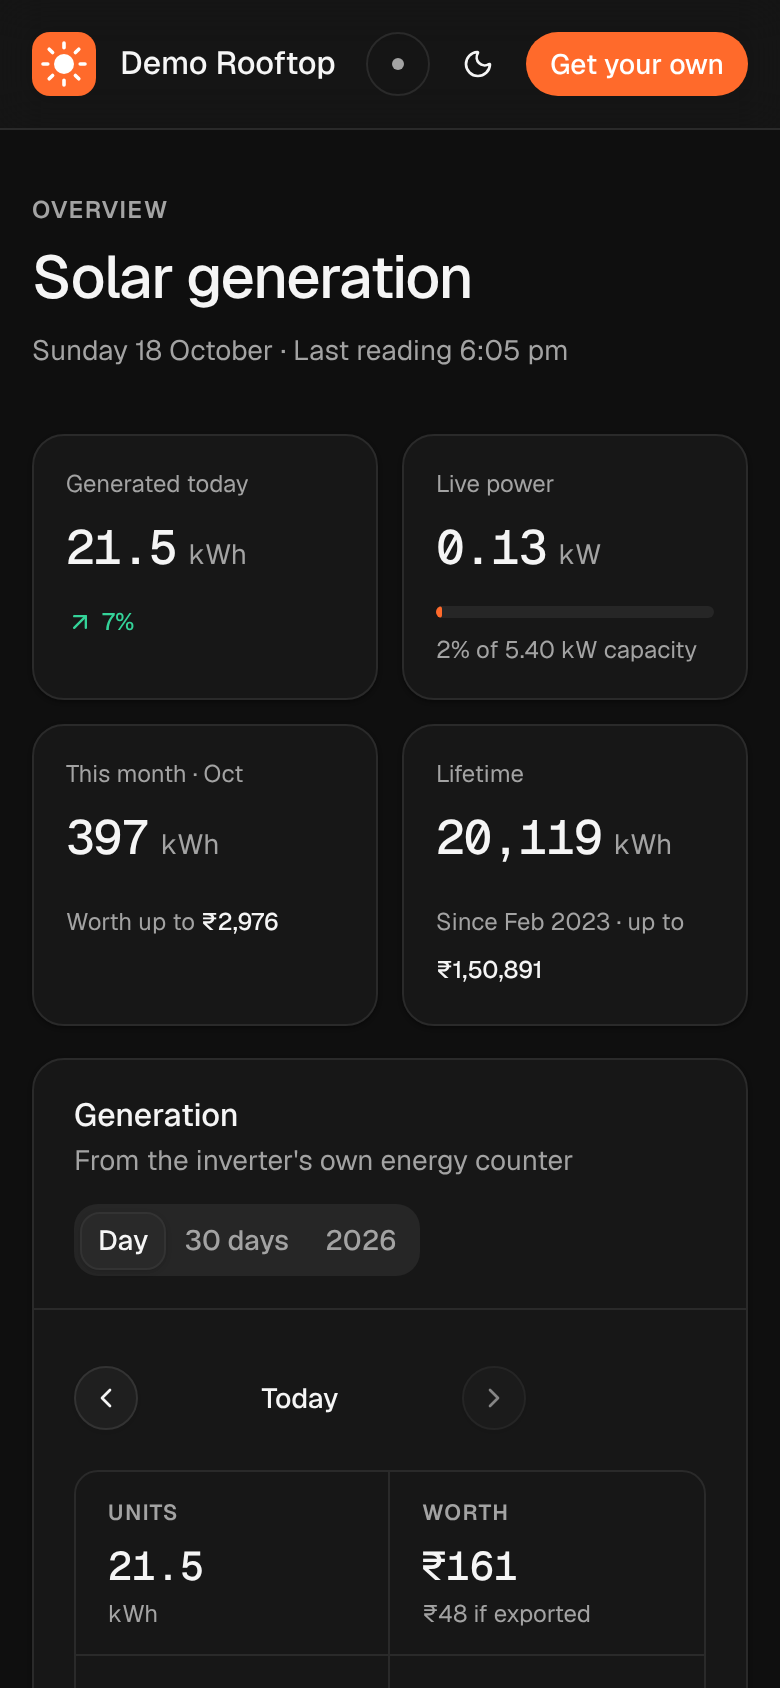
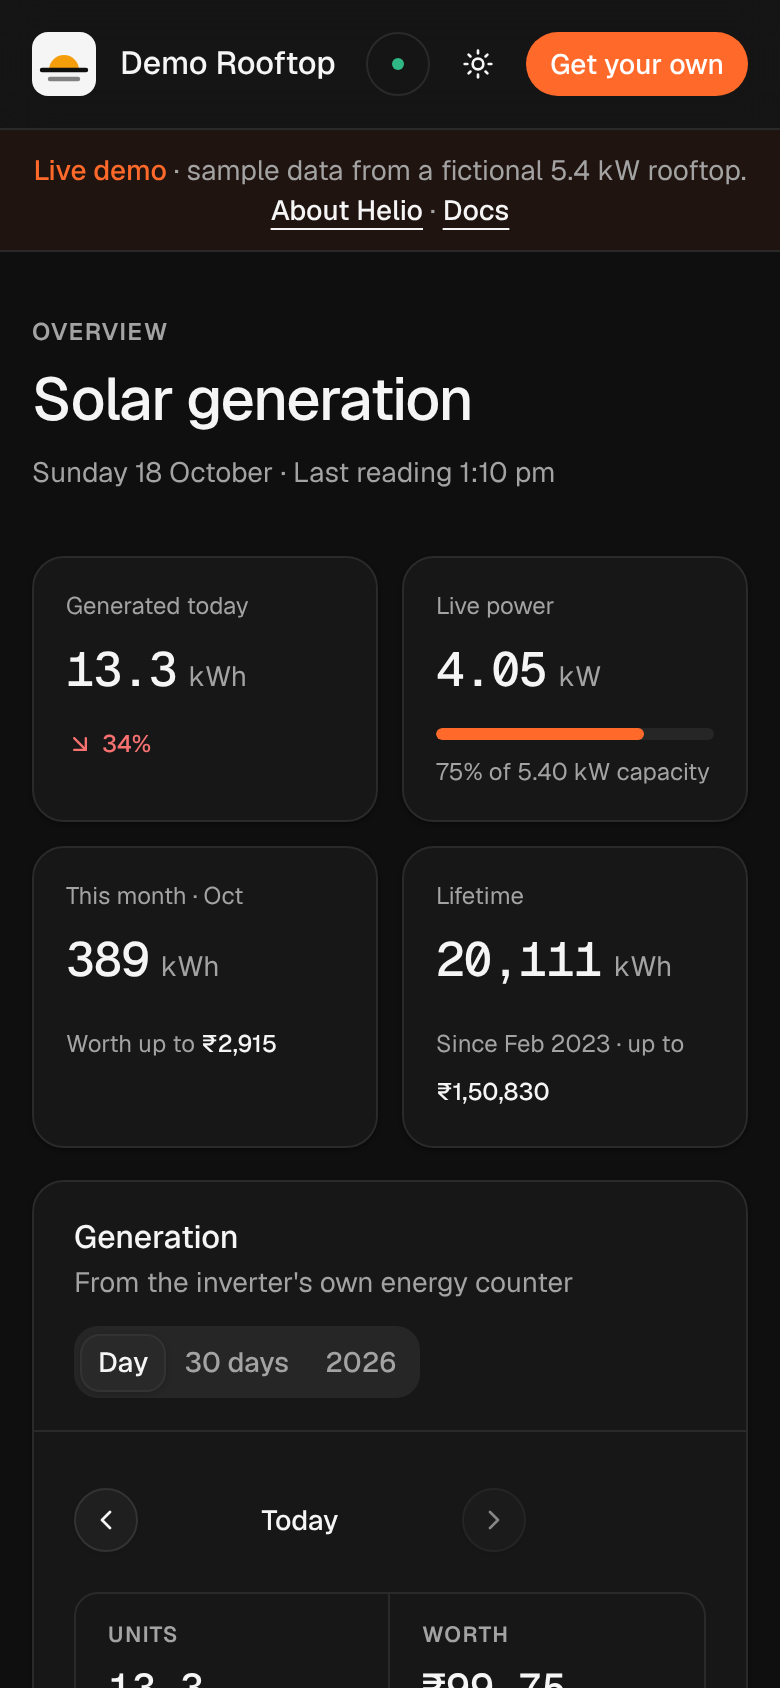
1.1.0: edit rates and currency on the dashboard
- What it's worth -> Edit rates: set tariff, export rate and currency per browser, reset to env defaults
- Small amounts show cents/paise so non-INR rates read correctly
- New mark (sun on the horizon) and neutral lifetime icon
- Fresh screenshots; docs explain overriding rates

Claude-Session: https://claude.ai/code/session_018cnrALVPbU82T1sgB5GFVr

diff --git a/components/dashboard.tsx b/components/dashboard.tsx
@@ -1,10 +1,12 @@
 "use client";
 import { useCallback, useEffect, useMemo, useState } from "react";
-import { ArrowDownRight, ArrowUpRight, CalendarDays, ChevronLeft, ChevronRight, IndianRupee, LogOut, Moon, Sun, SunMedium, Zap } from "lucide-react";
+import { ArrowDownRight, ArrowUpRight, CalendarDays, Check, ChevronLeft, ChevronRight, Infinity as InfinityIcon, LogOut, Moon, Pencil, Sun, SunMedium, Zap } from "lucide-react";
 import type { DayDetail, Overview } from "@/lib/shinemonitor";
 import type { Settings } from "@/lib/config";
 import { DOCS_URL, PROJECT_URL, REPO_URL } from "@/lib/links";
 import { Badge } from "@/components/ui/badge";
+import { Input } from "@/components/ui/input";
+import { Label } from "@/components/ui/label";
 import { Button } from "@/components/ui/button";
 import { Card, CardContent, CardDescription, CardHeader, CardTitle } from "@/components/ui/card";
 import { Separator } from "@/components/ui/separator";
@@ -21,7 +23,8 @@ type Data = Overview & { settings: Settings };
 let TZ = "Asia/Kolkata";
 let CUR = "₹";
 let LOC = "en-IN";
-const inr = (n: number) => CUR + Math.round(n).toLocaleString(LOC);
+// Whole units for big amounts, cents/paise for small ones so $0.18 rates still read correctly.
+const inr = (n: number) => CUR + (Math.abs(n) < 100 && n % 1 !== 0 ? n.toLocaleString(LOC, { minimumFractionDigits: 2, maximumFractionDigits: 2 }) : Math.round(n).toLocaleString(LOC));
 const MONTHS = ["Jan", "Feb", "Mar", "Apr", "May", "Jun", "Jul", "Aug", "Sep", "Oct", "Nov", "Dec"];
 const todayIST = () => new Date().toLocaleDateString("en-CA", { timeZone: TZ });
 const shiftDate = (d: string, n: number) => new Date(new Date(d + "T12:00:00+05:30").getTime() + n * 86400000).toLocaleDateString("en-CA", { timeZone: TZ });
@@ -50,6 +53,10 @@ export function Dashboard({ mode = "live" }: { mode?: "live" | "demo" }) {
   const [day, setDay] = useState<DayDetail | null>(null);
   const [dayLoading, setDayLoading] = useState(true);
   const [showAll, setShowAll] = useState(false);
+  const ratesKey = mode === "demo" ? "helio.demo.rates" : "helio.rates";
+  const [rates, setRates] = useState<Rates | null>(null);
+  useEffect(() => { setRates(readRates(ratesKey)); }, [ratesKey]);
+  const saveRates = (r: Rates | null) => { setRates(r); try { r ? localStorage.setItem(ratesKey, JSON.stringify(r)) : localStorage.removeItem(ratesKey); } catch {} };
 
   const loadOverview = useCallback(() => getJSON<Data>(api).then((d) => { TZ = d.settings.timezone; CUR = d.settings.currency; LOC = d.settings.locale; setData(d); setErr(null); }).catch((e) => setErr(e.message)), [api]);
   const loadDay = useCallback((d: string) => {
@@ -92,6 +99,9 @@ export function Dashboard({ mode = "live" }: { mode?: "live" | "demo" }) {
     );
   }
 
+  // Rates set on this device win over the server defaults, so anyone can use their own tariff and currency.
+  const set: Settings = { ...data.settings, ...(rates ?? {}) };
+  CUR = set.currency;
   const cap = data.plant.capacityKw;
   const diff = data.yesterdayKwh ? ((data.todayKwh - data.yesterdayKwh) / data.yesterdayKwh) * 100 : null;
   const isToday = date === todayIST();
@@ -134,9 +144,9 @@ export function Dashboard({ mode = "live" }: { mode?: "live" | "demo" }) {
             </div>
           } />
         <Kpi icon={CalendarDays} label={`This month · ${MONTHS[Number(todayIST().slice(5, 7)) - 1]}`} value={fmt(data.monthKwh, 0)} unit="kWh"
-          footer={<span className="text-xs text-muted-foreground">Worth up to <b className="font-medium text-foreground">{inr(data.monthKwh * data.settings.tariff)}</b></span>} />
-        <Kpi icon={IndianRupee} label="Lifetime" value={fmt(data.totalKwh, 0)} unit="kWh"
-          footer={<span className="text-xs text-muted-foreground">{since ? `Since ${since} · ` : ""}up to <b className="font-medium text-foreground">{inr(data.totalKwh * data.settings.tariff)}</b></span>} />
+          footer={<span className="text-xs text-muted-foreground">Worth up to <b className="font-medium text-foreground">{inr(data.monthKwh * set.tariff)}</b></span>} />
+        <Kpi icon={InfinityIcon} label="Lifetime" value={fmt(data.totalKwh, 0)} unit="kWh"
+          footer={<span className="text-xs text-muted-foreground">{since ? `Since ${since} · ` : ""}up to <b className="font-medium text-foreground">{inr(data.totalKwh * set.tariff)}</b></span>} />
       </div>
 
       <Card id="generation" className="mt-4 scroll-mt-24 gap-0 py-0">
@@ -164,7 +174,7 @@ export function Dashboard({ mode = "live" }: { mode?: "live" | "demo" }) {
             </div>
             <div className={cn("grid grid-cols-2 overflow-hidden rounded-lg border sm:grid-cols-4", dayLoading && "opacity-60")}>
               <MiniStat label="Units" value={day ? fmt(day.kwh) : "—"} unit="kWh" />
-              <MiniStat label="Worth" value={day ? inr(day.kwh * data.settings.tariff) : "—"} unit={day && data.settings.exportTariff ? `${inr(day.kwh * data.settings.exportTariff)} if exported` : ""} />
+              <MiniStat label="Worth" value={day ? inr(day.kwh * set.tariff) : "—"} unit={day && set.exportTariff ? `${inr(day.kwh * set.exportTariff)} if exported` : ""} />
               <MiniStat label="Peak" value={day?.peak ? fmt(day.peak.kw, 2) : "—"} unit={day?.peak ? `kW at ${t12(day.peak.t)}` : ""} />
               <MiniStat label="Producing" value={day?.firstAt ? `${t12(day.firstAt)} – ${t12(day.lastAt)}` : "—"} small />
             </div>
@@ -185,7 +195,7 @@ export function Dashboard({ mode = "live" }: { mode?: "live" | "demo" }) {
 
           <TabsContent value="year" className="px-5 pb-5 pt-5 sm:px-6">
             <div className="mb-4 text-sm text-muted-foreground">
-              Total <b className="font-mono font-medium tabular text-foreground">{fmt(data.yearKwh, 0)}</b> kWh · worth up to <b className="font-medium text-foreground">{inr(data.yearKwh * data.settings.tariff)}</b>
+              Total <b className="font-mono font-medium tabular text-foreground">{fmt(data.yearKwh, 0)}</b> kWh · worth up to <b className="font-medium text-foreground">{inr(data.yearKwh * set.tariff)}</b>
             </div>
             <UnitsChart items={data.months.map((m) => ({ key: String(m.m), label: MONTHS[m.m - 1], title: MONTHS[m.m - 1], kwh: m.kwh }))} active={String(Number(todayIST().slice(5, 7)))} />
           </TabsContent>
@@ -216,7 +226,7 @@ export function Dashboard({ mode = "live" }: { mode?: "live" | "demo" }) {
                       <div className="h-1.5 overflow-hidden rounded-full bg-muted"><div className="h-full rounded-full bg-primary/80" style={{ width: `${(d.kwh / maxDay) * 100}%` }} /></div>
                     </TableCell>
                     <TableCell className="text-right font-mono tabular">{fmt(d.kwh)}</TableCell>
-                    <TableCell className="text-right font-mono tabular text-muted-foreground">{inr(d.kwh * data.settings.tariff)}</TableCell>
+                    <TableCell className="text-right font-mono tabular text-muted-foreground">{inr(d.kwh * set.tariff)}</TableCell>
                   </TableRow>
                 ))}
               </TableBody>
@@ -225,23 +235,7 @@ export function Dashboard({ mode = "live" }: { mode?: "live" | "demo" }) {
           </CardContent>
         </Card>
 
-        <Card className="gap-0 py-0">
-          <CardHeader className="border-b px-5 py-4 sm:px-6 [.border-b]:pb-4">
-            <CardTitle className="text-base font-medium">What it&apos;s worth</CardTitle>
-            <CardDescription>{data.settings.exportTariff ? "Your two electricity rates" : "Your electricity rate"}</CardDescription>
-          </CardHeader>
-          <CardContent className="space-y-5 px-5 py-5 sm:px-6">
-            <Rate label="Used at home" rate={data.settings.tariff} note="saves what you'd pay the grid" />
-            {data.settings.exportTariff > 0 && <Rate label="Exported to grid" rate={data.settings.exportTariff} note="credited per unit" />}
-            <Separator />
-            <div className="space-y-3 text-sm">
-              <ValueRow label="Today" lo={data.todayKwh * data.settings.exportTariff} hi={data.todayKwh * data.settings.tariff} />
-              <ValueRow label="This month" lo={data.monthKwh * data.settings.exportTariff} hi={data.monthKwh * data.settings.tariff} />
-              <ValueRow label="This year" lo={data.yearKwh * data.settings.exportTariff} hi={data.yearKwh * data.settings.tariff} />
-            </div>
-            {data.settings.exportTariff > 0 && <p className="text-xs leading-relaxed text-muted-foreground">The real figure sits in this range depending on how much you use while the sun is up. Use more in the daytime and you get closer to the higher number.</p>}
-          </CardContent>
-        </Card>
+        <WorthCard set={set} defaults={data.settings} custom={!!rates} onSave={saveRates} todayKwh={data.todayKwh} monthKwh={data.monthKwh} yearKwh={data.yearKwh} />
       </div>
     </Shell>
   );
@@ -335,6 +329,84 @@ function MiniStat({ label, value, unit, small }: { label: string; value: string;
       <div className={cn("mt-1 font-mono font-medium tabular", small ? "pt-1 text-sm" : "text-xl")}>{value}</div>
       {unit && <div className="mt-0.5 text-xs text-muted-foreground">{unit}</div>}
     </div>
+  );
+}
+
+type Rates = Pick<Settings, "tariff" | "exportTariff" | "currency">;
+
+function readRates(key: string): Rates | null {
+  try {
+    const r = JSON.parse(localStorage.getItem(key) || "null");
+    if (r && typeof r.tariff === "number" && typeof r.exportTariff === "number" && typeof r.currency === "string") return r;
+  } catch {}
+  return null;
+}
+
+const CURRENCIES = ["₹", "$", "€", "£", "A$", "C$", "¥", "R", "AED ", "SAR ", "Rs ", "৳", "₱", "₦", "R$", "kr ", "zł ", "₺"];
+
+function WorthCard({ set, defaults, custom, onSave, todayKwh, monthKwh, yearKwh }: { set: Settings; defaults: Settings; custom: boolean; onSave: (r: Rates | null) => void; todayKwh: number; monthKwh: number; yearKwh: number }) {
+  const [editing, setEditing] = useState(false);
+  const [form, setForm] = useState({ tariff: "", exportTariff: "", currency: "" });
+  const open = () => { setForm({ tariff: String(set.tariff), exportTariff: set.exportTariff ? String(set.exportTariff) : "", currency: set.currency }); setEditing(true); };
+  const t = Number(form.tariff), e = form.exportTariff === "" ? 0 : Number(form.exportTariff);
+  const valid = form.tariff !== "" && isFinite(t) && t >= 0 && t < 10000 && isFinite(e) && e >= 0 && e < 10000 && form.currency.trim().length > 0 && form.currency.length <= 5;
+  const save = (ev: React.FormEvent) => { ev.preventDefault(); if (!valid) return; onSave({ tariff: t, exportTariff: e, currency: form.currency }); setEditing(false); };
+
+  return (
+    <Card className="gap-0 py-0">
+      <CardHeader className="flex flex-row items-start justify-between gap-3 border-b px-5 py-4 sm:px-6 [.border-b]:pb-4">
+        <div className="space-y-1.5">
+          <CardTitle className="text-base font-medium">What it&apos;s worth</CardTitle>
+          <CardDescription>{editing ? "Set the rates on your electricity bill" : set.exportTariff ? "Your two electricity rates" : "Your electricity rate"}</CardDescription>
+        </div>
+        {!editing && (
+          <Button variant="outline" size="sm" onClick={open} className="-mt-0.5 shrink-0"><Pencil /> Edit rates</Button>
+        )}
+      </CardHeader>
+      <CardContent className="space-y-5 px-5 py-5 sm:px-6">
+        {editing ? (
+          <form onSubmit={save} className="space-y-4">
+            <div className="grid grid-cols-[5.5rem_1fr] gap-3">
+              <div className="space-y-1.5">
+                <Label htmlFor="cur">Currency</Label>
+                <Input id="cur" list="helio-currencies" value={form.currency} maxLength={5} onChange={(x) => setForm({ ...form, currency: x.target.value })} className="font-mono" />
+                <datalist id="helio-currencies">{CURRENCIES.map((c) => <option key={c} value={c} />)}</datalist>
+              </div>
+              <div className="space-y-1.5">
+                <Label htmlFor="tariff">Price of a unit from the grid</Label>
+                <Input id="tariff" inputMode="decimal" type="number" step="any" min="0" value={form.tariff} onChange={(x) => setForm({ ...form, tariff: x.target.value })} className="font-mono" required />
+              </div>
+            </div>
+            <div className="space-y-1.5">
+              <Label htmlFor="export">Paid for each unit you export</Label>
+              <Input id="export" inputMode="decimal" type="number" step="any" min="0" placeholder="Leave empty if you aren't paid for exports" value={form.exportTariff} onChange={(x) => setForm({ ...form, exportTariff: x.target.value })} className="font-mono" />
+            </div>
+            <p className="text-xs leading-relaxed text-muted-foreground">Saved in this browser only. A unit is one kWh, the number your bill counts.</p>
+            <div className="flex flex-wrap items-center gap-2">
+              <Button type="submit" size="sm" disabled={!valid}><Check /> Save rates</Button>
+              <Button type="button" size="sm" variant="ghost" onClick={() => setEditing(false)}>Cancel</Button>
+              {custom && (
+                <Button type="button" size="sm" variant="ghost" className="ml-auto text-muted-foreground" onClick={() => { onSave(null); setEditing(false); }}>
+                  Reset to {defaults.currency}{defaults.tariff}
+                </Button>
+              )}
+            </div>
+          </form>
+        ) : (
+          <>
+            <Rate label="Used at home" rate={set.tariff} note="saves what you'd pay the grid" />
+            {set.exportTariff > 0 && <Rate label="Exported to grid" rate={set.exportTariff} note="credited per unit" />}
+            <Separator />
+            <div className="space-y-3 text-sm">
+              <ValueRow label="Today" lo={todayKwh * set.exportTariff} hi={todayKwh * set.tariff} />
+              <ValueRow label="This month" lo={monthKwh * set.exportTariff} hi={monthKwh * set.tariff} />
+              <ValueRow label="This year" lo={yearKwh * set.exportTariff} hi={yearKwh * set.tariff} />
+            </div>
+            {set.exportTariff > 0 && <p className="text-xs leading-relaxed text-muted-foreground">The real figure sits in this range depending on how much you use while the sun is up. Use more in the daytime and you get closer to the higher number.</p>}
+          </>
+        )}
+      </CardContent>
+    </Card>
   );
 }
 

diff --git a/components/brand.tsx b/components/brand.tsx
@@ -5,11 +5,10 @@ const URL = process.env.NEXT_PUBLIC_BRAND_URL || "https://rishishah.in";
 export function Logo({ size = 32 }: { size?: number }) {
   return (
     <svg width={size} height={size} viewBox="0 0 32 32" aria-hidden className="shrink-0">
-      <rect width="32" height="32" rx="9" className="fill-primary" />
-      <circle cx="16" cy="16" r="5" fill="#fff" />
-      <g stroke="#fff" strokeWidth="1.8" strokeLinecap="round">
-        <path d="M16 5.5v2.4M16 24.1v2.4M5.5 16h2.4M24.1 16h2.4M8.6 8.6l1.7 1.7M21.7 21.7l1.7 1.7M8.6 23.4l1.7-1.7M21.7 10.3l1.7-1.7" />
-      </g>
+      <rect width="32" height="32" rx="8" className="fill-foreground" />
+      <path d="M8.5 19a7.5 7.5 0 0 1 15 0Z" fill="#f59e0b" />
+      <path d="M5 19h22" strokeWidth="2.2" strokeLinecap="round" className="stroke-background" />
+      <path d="M9 23.5h14" strokeWidth="2.2" strokeLinecap="round" opacity=".5" className="stroke-background" />
     </svg>
   );
 }

diff --git a/README.md b/README.md
@@ -28,7 +28,7 @@ The official apps show the right numbers, but they're slow, cluttered and hard t
 - **Live power** in kW and as a share of your system's capacity, with a *Generating / Idle / No recent data* status
 - **Any past day** in detail: units, value, peak power and when it hit, producing hours, a 5-minute power curve
 - **History:** the last 30 days with average and best day, every month of the year, and a daily log you can click into
-- **What it's worth** in your currency, with separate rates for units you use and units you export
+- **What it's worth** in your currency, with separate rates for units you use and units you export. Rates can be edited right on the dashboard
 - **Private by default:** a password-protected dashboard; your ShineMonitor login never reaches the browser
 - **Made for phones**, with light and dark themes and nothing to install
 - **Free to run** on Vercel: no database, no server to look after

diff --git a/docs/configuration.md b/docs/configuration.md
@@ -27,6 +27,10 @@ Everything is set with environment variables. On Vercel: **Project → Settings 
 | `NEXT_PUBLIC_PROJECT_URL` | `https://helio.rishishah.in` | "About Helio" link on the demo page |
 | `NEXT_PUBLIC_REPO_URL` | `https://github.com/byrishi/helio` | GitHub links in the app |
 
+### Changing rates without redeploying
+
+`TARIFF`, `EXPORT_TARIFF` and `CURRENCY` are the defaults. Anyone signed in can override them from **What it's worth → Edit rates** on the dashboard. That choice is saved in their browser only, so each phone can use its own rates, and **Reset** goes back to the defaults.
+
 ## Advanced
 
 Only change these if ShineMonitor changes something or your account lives on a vendor-specific portal.

diff --git a/CHANGELOG.md b/CHANGELOG.md
@@ -1,5 +1,10 @@
 # Changelog
 
+## 1.1.0 (2026-10-18)
+
+- Edit your electricity rates and currency from the dashboard (What it's worth → Edit rates). Saved per browser, with reset to the env defaults
+- Lifetime card uses a neutral icon instead of the rupee sign
+
 ## 1.0.0 (2026-10-18)
 
 First public release.
